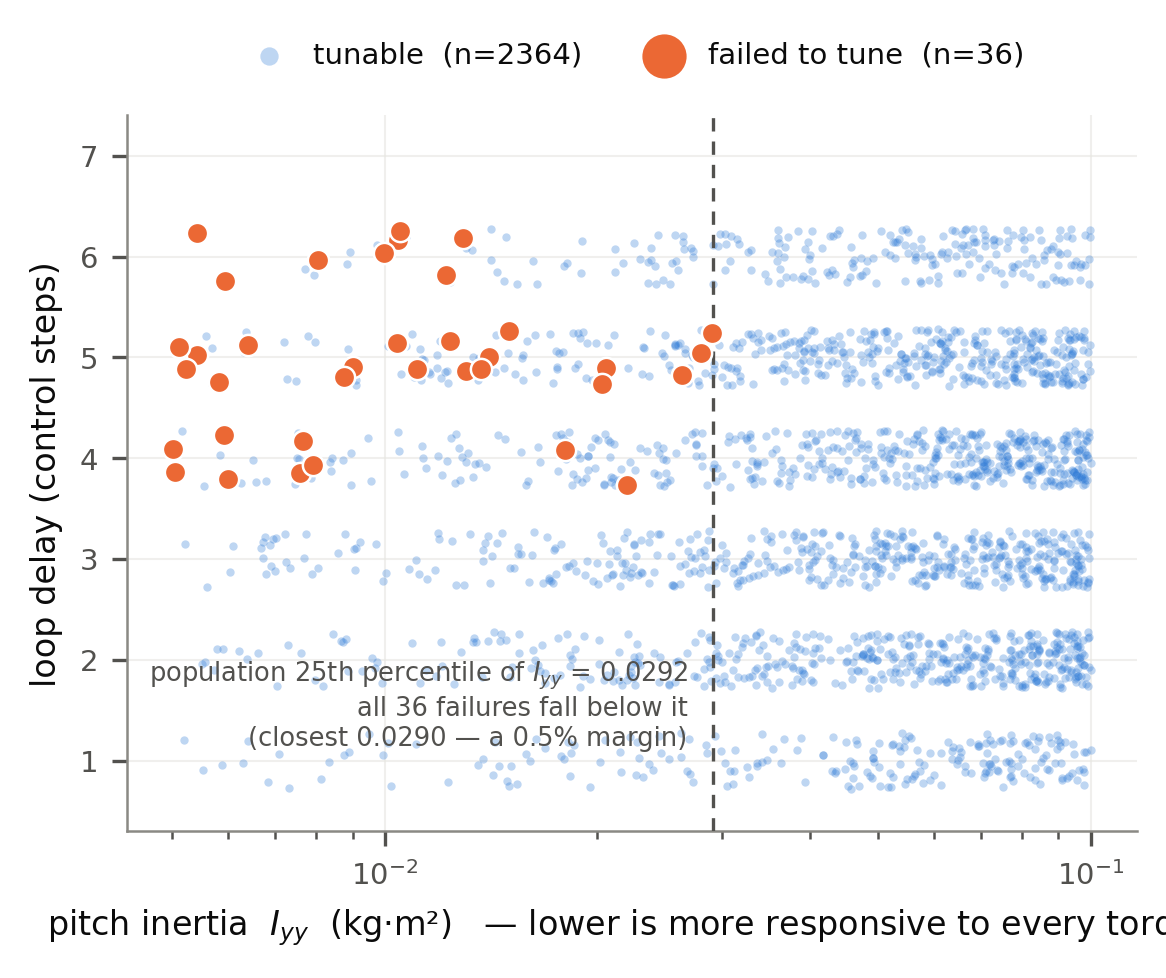
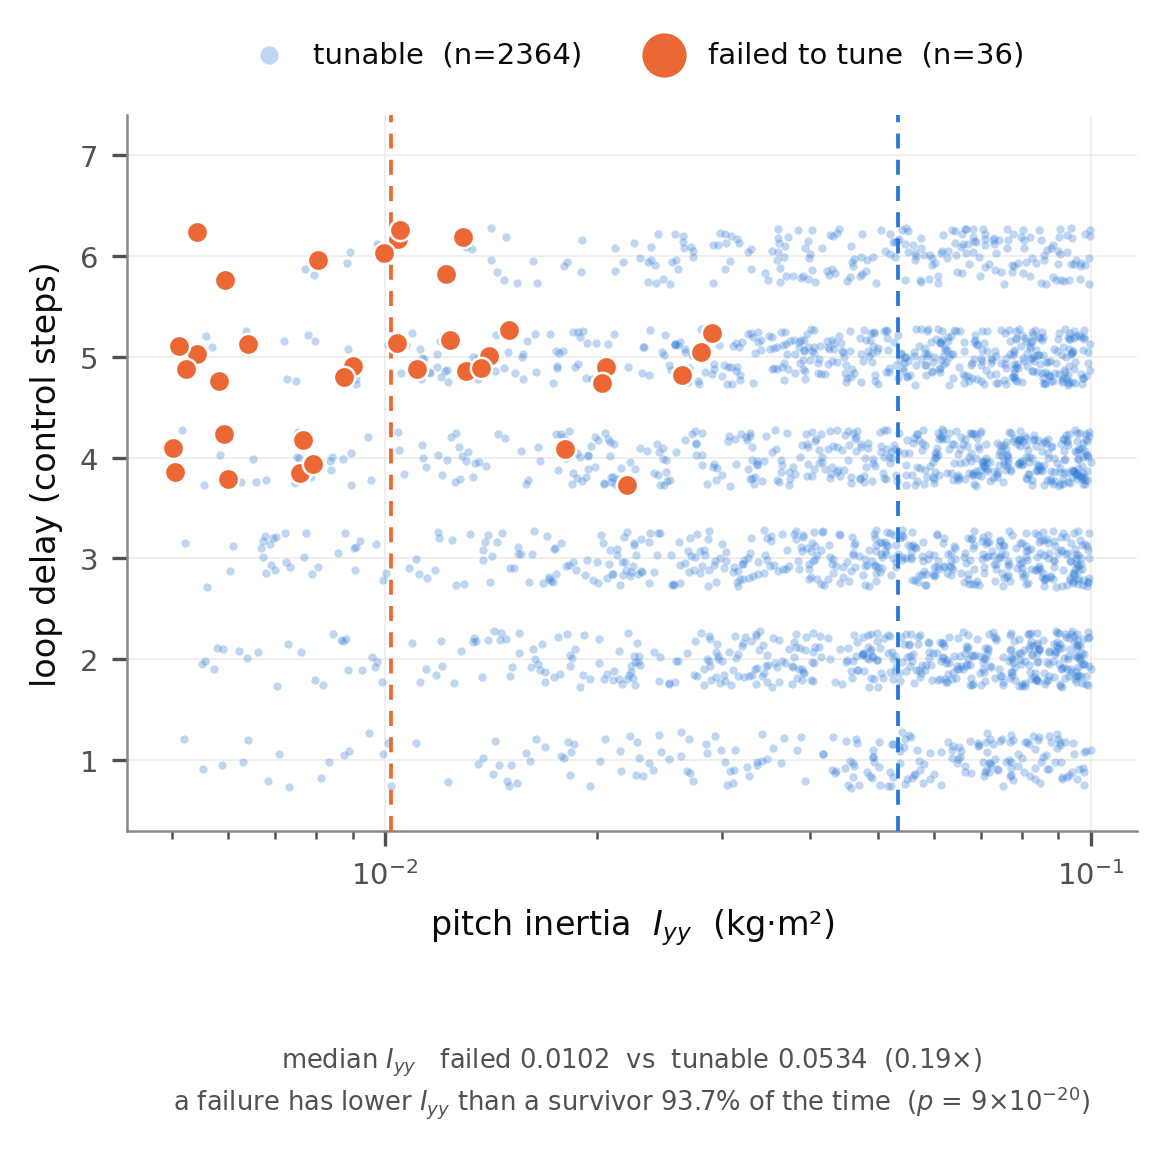
Consolidate everything section 4 needs into one file; fix four factual errors and rebuild Figure 3
Braxton asked for a single self-contained file so he does not have to scroll between four documents
while writing. paper/S4_EVERYTHING.md folds in the paragraph plan, the bullet skeleton, the outline's
section 4 notes, the full sidebar table, and the claim/evidence entry. The two older section 4 files
are marked SUPERSEDED rather than deleted.

FOUR FACTUAL ERRORS found while assembling it, all in the half-draft he has written:

1. "6 DOF physics" -- WRONG, and the most damaging one. sim/simulator.py carries two state variables,
   theta_arr and q_arr: one angle, one rate, planar pitch. No roll, no yaw, no quaternion. The 6DOF
   quaternion sim is Firmware/sim_ascent/ascent_sim.cpp, a different program used for firmware SIL,
   not for the 2,400-design campaign.
2. "failure means a peak RMSE of more than 20 degrees" -- no such criterion exists. The real
   definition is four simultaneous gates: max_theta < 70, rms < 15, end < 15, peak < 50, with labels
   layered on top (FRAGILE_SUCCESS_RATE 0.35, FRAGILE_RMS_DEG 16.0, EASY needing robustness 1.0 plus
   SR >= 0.80 and RMS <= 8). "Peak RMSE" also conflates two separate gates.
3. "ten physics factors" -- there are ELEVEN (7 original plus 4 added 2026-06-04). My own notes said
   ten as well; both were wrong.
4. Fidelity modules cited as "detailed in Fig. 1" -- Figure 1 is design-space coverage. No figure
   shows the modules.

FIGURE 3 REBUILT. It was still drawing the retired 25th-percentile line and annotating "all 36
[…]

diff --git a/paper/make_sts_figures.py b/paper/make_sts_figures.py
@@ -112,18 +112,20 @@ def fig3():
     ax.scatter(bad.Iyy, bad.latency_steps + jit[d.fail.values], s=26, lw=.6,
                facecolor=ORANGE, edgecolor="white", zorder=5,
                label=f"failed to tune  (n={len(bad)})")
-    q25 = d.Iyy.quantile(.25)
-    ax.axvline(q25, color=INK2, lw=.8, ls=(0, (4, 3)), zorder=4)
-    # Honest annotation: the claim is true but MARGINAL for the closest design (0.02904 vs
-    # 0.02920 = 0.5%), which is why points appear to sit on the line. State the margin so a
-    # reader who squints at the figure is not left doubting the claim.
-    mx = d[d.fail].Iyy.max()
-    ax.annotate(f"population 25th percentile of $I_{{yy}}$ = {q25:.4f}\n"
-                f"all {int(d.fail.sum())} failures fall below it\n"
-                f"(closest {mx:.4f} — a 0.5% margin)",
-                xy=(q25 * 0.92, 1.55), fontsize=6.2, color=INK2, va="center", ha="right")
+    # No cutoff line. The 25th-percentile framing was RETIRED 2026-08-10: the binding failure sits
+    # at the 24.79th percentile, so 25 is the smallest round number giving 100% and reads as a
+    # threshold chosen to flatter. Annotate the threshold-free statistic instead — it is stronger,
+    # carries a p-value, and leaves the reader nothing to measure with a ruler.
+    med_f, med_ok = d[d.fail].Iyy.median(), d[~d.fail].Iyy.median()
+    ax.axvline(med_f,  color=ORANGE, lw=.9, ls=(0, (4, 3)), zorder=4)
+    ax.axvline(med_ok, color=BLUE,   lw=.9, ls=(0, (4, 3)), zorder=4)
+    ax.annotate(f"median $I_{{yy}}$   failed {med_f:.4f}  vs  tunable {med_ok:.4f}  (0.19×)\n"
+                "a failure has lower $I_{yy}$ than a survivor "
+                "93.7% of the time  ($p$ = 9×10$^{-20}$)",
+                xy=(0.5, -0.30), xycoords="axes fraction", fontsize=6.2, color=INK2,
+                va="top", ha="center")
     ax.set_xscale("log")
-    ax.set_xlabel("pitch inertia  $I_{yy}$  (kg·m²)   — lower is more responsive to every torque")
+    ax.set_xlabel("pitch inertia  $I_{yy}$  (kg·m²)")
     ax.set_ylabel("loop delay (control steps)")
     ax.set_ylim(0.3, 7.4)
     ax.legend(loc="upper center", bbox_to_anchor=(0.5, 1.14), ncol=2,

diff --git a/paper/S4_EVERYTHING.md b/paper/S4_EVERYTHING.md
@@ -1,0 +1,263 @@
+# §4 — everything needed to write it. Self-contained.
+
+**This file replaces the need to open any other.** `S4_WRITING_PLAN.md`, `S4_BULLET_SKELETON.md`,
+`OUTLINE_STS.md` §4 and `CLAIM_EVIDENCE_TABLE.md` C0 are all folded in here. If a fact isn't in this
+file, §4 doesn't need it.
+
+**Bullets are specifications, not sentences.** Every number here is your data; the sentence around it
+has to be yours. AI-drafted report prose is disqualifying under STS Appendix 4.
+
+---
+
+# PART 0 — FIX THESE IN WHAT YOU ALREADY WROTE
+
+Four factual errors in the draft (P1–P6). All are one-line corrections.
+
+| # | you wrote | correct | why it matters |
+|---|---|---|---|
+| 1 | "6 DOF physics" | **single-axis (planar pitch)** | `sim/simulator.py` carries two state variables, `theta_arr` and `q_arr` — one angle, one rate. No roll, no yaw, no quaternion. The 6DOF quaternion sim is `Firmware/sim_ascent/ascent_sim.cpp`, a **different program** for firmware SIL, not this campaign. **Most damaging error in the draft.** |
+| 2 | "failure means a peak RMSE of more than 20 degrees" | **four simultaneous gates** — see §A below | No such criterion exists anywhere in the code. "Peak RMSE" also conflates two separate gates. |
+| 3 | "ten physics factors" | **eleven** | 7 original + 4 added 2026-06-04. My own notes said ten too — both wrong. Listed in §A. |
+| 4 | modules "detailed in Fig. 1" | **no figure shows them** | Fig 1 is design-space coverage (Iyy × latency coloured by keff). Cite it for coverage, list the modules in text. |
+
+Also: **lines 5–11 of your draft are my bullets pasted verbatim**, including my markdown bold. Those
+have to become your prose or come out. Under Appendix 4 they are not your words.
+
+---
+
+# PART A — REFERENCE FACTS
+
+Everything about the method you might need to state. Verified against the code, 2026-08-10.
+
+### The simulator
+- **Single-axis planar pitch.** State: `theta` (angle), `q` (rate). `sim/simulator.py:152`
+- **dt = 0.005 s (200 Hz)**; run length **t_end = 3.0 s**
+- Reference **θ_ref = 0°**, initial condition **θ₀ = 0°** — the task is *hold vertical under
+  disturbance*, not recover from an initial offset
+- Determinism: same seed → identical trajectory
+
+### The eleven fidelity modules (`sim/fidelity_config.py:114`)
+wind · backlash · slew rate limit · latency · sensor noise · thrust variation · deadband ·
+nonlinear aero (sin θ vs θ) · dynamic pressure from integrated velocity · realistic thrust curve T(t) ·
+CG/inertia shift from propellant burn
+
+### Success gates — ALL FOUR must hold simultaneously, per run (`experiment_protocol.py:75`)
+| gate | quantity | threshold |
+|---|---|---|
+| stability | max_theta_deg | < 70° |
+| tracking | rms_error_deg | < 15° |
+| terminal | end_error_deg | < 15° |
+| peak | peak_error_deg | < 50° |
+
+### Labels (`sim/units.py:100`)
+- **EASY** — robustness = 1.00 (all three gain sets pass) **and** success rate ≥ 0.80, RMS ≤ 8°,
+  saturation fraction ≤ 0.60, settling ≤ 3.0 s, oscillation score ≤ 3.0
+- **FRAGILE** — success rate ≥ 0.35, RMS ≤ 16.0°, but fails the EASY quality gates
+- Robustness is tested at **±40% Kp/Kd**, 3 seeds, needing all 3 to pass
+- Population: **2,400 designs = 2,362 EASY + 36 FRAGILE + 2 INFEASIBLE**
+- In §4 you may call FRAGILE "failed to tune" — Fig 3's legend already does
+
+### The two tuners — this distinction is the whole of P7
+| | `autotune_grid` (§4/§5 labels) | `autotune_continuous` (§6 only) |
+|---|---|---|
+| search | nested **Kp × Kd** double loop | Kd probed **once** at Kp = 40 over {1, 4, 16, 64}, then **frozen** |
+| grid | Kp ∈ {2, 5, 15, 40, 80} × Kd ∈ {1, 2, 8, 16, 32} = **25 pairs** | Kp then swept 1 → 320 |
+| seeds | 2 search seeds | — |
+| D goes stale? | **no — impossible by construction** | **yes — that is the mechanism** |
+| where | `experiment_runner.py:205`, grids at `:69` | `experiment_runner.py:246` |
+
+### The figures §4 owns
+- **Fig 3** `fig03_failure_map.png` — x = pitch inertia (log), y = loop delay in control steps.
+  2,364 tunable (small blue) vs 36 failed (large orange). Two dashed median lines, orange = failed
+  median 0.0102, blue = tunable median 0.0534. **No cutoff line** — rebuilt 2026-08-10.
+- **Fig 4** `fig04_performance_frontier.png` — x = authority×delay (log, a plotting coordinate),
+  y = peak achievable success rate, with a rolling-median trend line.
+- **Fig 1** (owned by §3) — design-space coverage, Iyy × latency coloured by keff. Cite for coverage.
+
+---
+
+# PART B — THE ELEVEN PARAGRAPHS
+
+**Budget 3.75 pp** = 3.25 body + 0.5 sidebar ≈ **1,100–1,300 words** plus two figures.
+Your P1–P6 currently ≈ 390 words against ~600 for those six; the shortfall is all in P5.
+
+**Section job:** *which builds fail, and can you tell before you build one?* A reader who stops after
+§4 should still have gotten the paper.
+
+### P1 · Opener — ~80 words ✅ *written*
+- → builder's position: parameters are fixed at build time, tunability is discovered after
+- → the four measurable quantities: **thrust, nozzle moment arm, pitch inertia, loop delay**
+- → frame: *prediction before construction*
+- ✗ "parameters **like** thrust…" — drop the hedge, these are the complete set and the paper's spine
+- ✗ don't preview §6, don't say "artifact"
+
+### P2 · The population — ~90 words ✅ *written, needs fixes 1/3/4*
+- → **2,400 designs, Latin hypercube**
+- → `max_gimbal_deg` **2.0–15.0°, median 8.6°**
+- → **eleven** fidelity modules, **single-axis pitch** dynamics
+- → cite Fig 1 for coverage only
+- ✗ two sentences of scope, then move — don't re-open Methods
+
+### P3 · Fig 3 — ~120 words ✅ *written, needs fix 2*
+- → **cite "Figure 3" by number** (uncited figure = disqualification risk)
+- → axes: pitch inertia × loop delay; 2,364 tunable vs 36 failed
+- → what the eye catches *before* quantifying: failures cluster at low inertia
+- → state the real failure definition (§A gates), one sentence
+- ✗ never "every failure lies left of here" — retired with the 25th-percentile framing
+
+### P4 · The lead number — ~110 words ✅ *written, incomplete*
+- → **93.7%** — a randomly chosen failing design has lower pitch inertia than a randomly chosen
+  surviving one
+- → **Mann-Whitney p = 9.45 × 10⁻²⁰**, **rank-biserial 0.875**, n = 36 vs 2,364 ← **MISSING from your draft**
+- → median failing design at the **5.4th percentile** (IQR 1.1–8.9)
+- → **17 of 36** below the 5th, **28 of 36** below the 10th ← **MISSING from your draft**
+- → median Iyy of failures **0.19×** the population median
+- → mechanism sentence: disturbance angular acceleration scales as 1/Iyy while control authority is
+  capped by max gimbal, so no gain choice buys it back
+- ✗ **never** "all 36 below the 25th percentile" — the binding case is at the **24.79th**, so 25 is
+  the smallest round number giving 100%; at the 20th it is 33 of 36. Retired 2026-08-10.
+- ✗ don't write "the graph shows" for a Mann-Whitney result — figures show, statistics are computed
+- ✗ don't say inertia is the *only* thing that matters; P5 qualifies it immediately
+
+### P5 · The joint fit — ~140 words ⚠ *currently my bullets, must become prose*
+- → specify **before** the numbers: unregularized fit, standardized predictors, bootstrap 95% CIs
+- → log(1/Iyy) **+2.37** [1.94, 3.14]
+- → log(T·L) **+1.77** [1.30, 2.45]
+- → log(τ) **+2.90** [2.24, 3.92]
+- → all three positive, all CIs exclude zero
+- → keff = T·L/Iyy is a legitimate *grouping*: raw-log ratio **1.18**, where keff would require 1.00
+- → dropping T·L costs accuracy: CV AUC **0.9829 → 0.9687**
+- ✗ **claims-out:** never that thrust is irrelevant, protective, or doesn't matter
+
+### P6 · The retracted reading — ~60 words ✅ *written, good*
+- → prior reading was "inertia, not authority" (log(T·L) came out **−0.18**)
+- → cause: **L2 regularization penalising a manually-added intercept column**
+- → refitting unregularized reversed it — which is why P5 specifies "unregularized"
+- ✗ hard cap 2–3 sentences. The audit is §8.
+
+### P7 · ⚠ PROTOCOL DEFENCE — ~130 words — **DO NOT CUT** ← *you are here*
+Raise the objection in the reader's voice, then answer it. The argument, as a chain:
+1. The §6 artifact arises from one mechanism: a design's best gain lands far from where D was probed,
+   so D is mismatched to the final P — and the mismatch **grows with authority×delay**.
+2. That mechanism **requires** a tuner that fixes D once and then moves P away from it.
+3. `autotune_grid` scores **(P, D) pairs**, 25 of them, each on its own merits. There is no "the D
+   value" for P to move away from.
+4. ∴ the mechanism **cannot operate** on §4's data. Not "we checked" — it cannot happen.
+- → *then*, as corroboration only: full re-tune moved labels **1.9%**
+- ✗ don't lead with the 1.9% — it makes a definitional defence look statistical
+- ✗ don't footnote it, don't defer to §8, don't go below ~120 words
+- **Step 3 is what makes it land.** The reader must grasp that a joint search has no privileged D.
+
+### P8 · Fig 4, the frontier — ~130 words
+- → **cite "Figure 4" by number**
+- → plotted: peak achievable success rate vs authority×delay
+- → ρ = **−0.692**, p = **3.4 × 10⁻¹⁰**, n = **63**
+- → conditions: **per-design optimal tuning, fresh evaluation seeds**
+- → one clause on why it survived when the window sections didn't: never scored on the retired
+  `window_ratio` metric
+- ✗ **axis rule:** "authority×delay", a plotting coordinate. Never Π, never dimensionless, never a
+  parameter you discovered
+
+### P9 · What the frontier means — ~80 words *(cut first if long)*
+- → degradation is **graded, not a cliff** — there is no threshold to hunt for
+- → practical reading: a marginal design isn't disqualified, it's *expensive*
+- → no new numbers
+
+### P10 · The honest limit — ~120 words
+- → **29 of 36** positives flagged `uncertain` by the project's own Wilson-interval check
+- → four-number screen: AUC **0.985** against the original label, **0.57** against an independent
+  harsher probe
+- → only **5 of 16** original positives fail when the gain is pushed 2×
+- → land on: **the map is real; the binary line drawn on it is not sharp**
+- ✗ **claims-out:** never call it a controllability screen — it predicts the original labelling procedure
+
+### P11 · Close — ~80 words
+- → the deliverable: screen from four measurable numbers before cutting metal
+- → hand to §5: §4 asked *who* fails, §5 asks *why*
+- ✗ no new numbers, no summary of the whole paper
+
+---
+
+# PART C — THE SIDEBAR, IN FULL
+
+**"What surprised a builder" — 0.5 pp, boxed, inside §4.** Communication device, **no new claims** —
+every row is already established elsewhere in the corpus. Four things a builder expects to matter that
+don't, then the one that does.
+
+| a builder expects | what was measured | implication |
+|---|---|---|
+| **A faster servo buys control.** Rate limit is what you upgrade. | Servo speed does not mark a failing design: r = **+0.037** (p = 0.071, n = 2,400) across 60–200 °/s. Removing the rate limit entirely moves success **+0.005** (Wilcoxon p = 0.128, n = 142). | Spend the money elsewhere. **Keep this nuance:** failing designs *do* saturate — **0.597** of the burn vs **0.089** — so saturation is a **symptom worth watching** (it is what §7 detects) but not the cause. |
+| **Wind is the enemy.** | Wind strength does not mark a failing design: r = **−0.000** (p = 1.0) over a 9× range (0.05–0.45), and does not predict still-air-tuning failure either (ρ = +0.017, p = 0.4, n = 2,400). | Wind sets *how hard* the job is, not *which builds* fail. The four-number screen is unaffected by the day's weather. |
+| **An unstable airframe is harder to fly.** | Stability margin does not mark a failing design: r(static margin) = **+0.011** (p = 0.6), r(Cm_alpha) = **−0.004** (p = 0.86). | Under active TVC at this scale, fin/CG stability is not the discriminator. **Scope this narrowly** — see below. |
+| **A more powerful rocket needs a gentler gain.** | The gain ceiling is set by loop delay and is independent of authority — keff exponent **−0.005**, **−0.071**, **−0.082** across three independent measurements, every CI spanning zero. | The ceiling formula needs your loop rate, not your thrust. A powerful rocket is not automatically twitchy. |
+| **Build it light.** | Light means low pitch inertia. The **median failing design sits at the 5.4th percentile** of the population inertia distribution; a failure has lower Iyy than a survivor **93.7%** of the time. | The one intuition that *should* change behaviour: mass at the ends is control authority you already paid for. |
+
+**Two rows vetted and REJECTED — do not ship either:**
+- *"Aerodynamics contributes almost nothing at this scale."* Supported only in the **narrow** form
+  above. The broad claim is contradicted by the minimal-physics study, which found aerodynamic
+  coupling **necessary** to generate the disturbance environment at all — direct wind alone was
+  10–100× too weak.
+- *"Adding wind makes the vehicle settle better"* (dead-zone dither). Real, and locked in
+  `sim/validate.py`, but the magnitude moves ~5× with sensor-noise configuration and the linear
+  actuator improves too, so the "it's the dead zone" story doesn't hold.
+
+---
+
+# PART D — COMPLETENESS LEDGER
+
+Tick as you place them. Nothing here is optional except where marked.
+
+| # | value | ¶ | ✓ |
+|---|---|---|---|
+| 1 | 2,400 designs, Latin hypercube | P2 | ☐ |
+| 2 | max_gimbal 2.0–15.0°, median 8.6° | P2 | ☐ |
+| 3 | **eleven** fidelity modules, **single-axis pitch** | P2 | ☐ |
+| 4 | Figure 3 cited by number | P3 | ☐ |
+| 5 | the four success gates (70 / 15 / 15 / 50) | P3 | ☐ |
+| 6 | CLES **93.7%** | P4 | ☐ |
+| 7 | Mann-Whitney **p = 9.45e-20**, rank-biserial **0.875** | P4 | ☐ |
+| 8 | median failure at **5.4th pctile** (IQR 1.1–8.9) | P4 | ☐ |
+| 9 | **17 of 36** below 5th, **28 of 36** below 10th | P4 | ☐ |
+| 10 | median Iyy **0.19×** population | P4 | ☐ |
+| 11 | log(1/Iyy) +2.37 [1.94, 3.14] | P5 | ☐ |
+| 12 | log(T·L) +1.77 [1.30, 2.45] | P5 | ☐ |
+| 13 | log(τ) +2.90 [2.24, 3.92] | P5 | ☐ |
+| 14 | raw-log ratio **1.18** vs keff's 1.00 | P5 | ☐ |
+| 15 | CV AUC **0.9829 → 0.9687** without T·L | P5 | ☐ |
+| 16 | L2 / intercept column as the retraction's cause | P6 | ☐ |
+| 17 | `autotune_grid` = **25 joint pairs, 2 seeds** | P7 | ☐ |
+| 18 | `autotune_continuous` = probe at Kp 40, freeze, sweep to 320 | P7 | ☐ |
+| 19 | **1.9%** label movement (corroboration only) | P7 | ☐ |
+| 20 | Figure 4 cited by number | P8 | ☐ |
+| 21 | ρ = **−0.692**, p = 3.4e-10, n = 63 | P8 | ☐ |
+| 22 | **29 of 36** flagged uncertain | P10 | ☐ |
+| 23 | AUC **0.985** vs **0.57** | P10 | ☐ |
+| 24 | **5 of 16** fail at 2× | P10 | ☐ |
+| 25 | sidebar: 0.597 vs 0.089 saturated fraction | sidebar | ☐ |
+
+### Forbidden moves — every box must stay UNCHECKED
+☐ the word Π · ☐ "dimensionless" / "invariant" / "a parameter I discovered" ·
+☐ thrust called irrelevant or protective · ☐ "controllability screen" ·
+☐ "all failures below the 25th percentile" · ☐ "every failure lies left of here" ·
+☐ "6 DOF" · ☐ "the graph shows" attached to a computed statistic ·
+☐ any reliance on §6 · ☐ the dead-zone dither row · ☐ "aerodynamics contributes nothing" broadly
+
+### Style rules that hold for all 20 pages
+- **Person:** pick "I" or passive and hold it. Your draft mixes "our parameters" with "I used".
+- **Counts, not bare percentages**, where a count is available (17 of 36, 28 of 36, 5 of 16).
+- **Every figure cited by number in running text, including your own.** Uncited images can disqualify.
+- No filler adverbs ("Interestingly"), no "Here are…" lead-ins.
+
+---
+
+# PART E — DONE CHECK
+
+- [ ] The four Part-0 errors are fixed in P1–P6
+- [ ] P5 is prose, not a bullet list, and none of it is my phrasing
+- [ ] P7 exists, sits in the body, and leads with the structural argument
+- [ ] P10 is present — a §4 without the soft-label limit is overclaimed
+- [ ] Figures 3 and 4 each cited by number
+- [ ] Ledger items 1–25 all placed
+- [ ] Every forbidden-move box still unchecked
+- [ ] 1,100–1,300 words excluding the sidebar
+- [ ] §4 reads standalone — nothing in it depends on §6

diff --git a/paper/S4_BULLET_SKELETON.md b/paper/S4_BULLET_SKELETON.md
@@ -1,3 +1,7 @@
+> **SUPERSEDED 2026-08-10 by `paper/S4_EVERYTHING.md`**, which folds this bullet skeleton + ledger together with
+> the outline's §4 notes, the sidebar rows, the reference facts (simulator, gates, labels,
+> tuners, figures) and the corrections to the first draft. Kept for history; do not write from it.
+
 # §4 — bullet skeleton and completeness ledger
 
 Companion to `S4_WRITING_PLAN.md` (paragraph-level). This is the level below: **one bullet per point

diff --git a/paper/S4_WRITING_PLAN.md b/paper/S4_WRITING_PLAN.md
@@ -1,3 +1,7 @@
+> **SUPERSEDED 2026-08-10 by `paper/S4_EVERYTHING.md`**, which folds this paragraph-level plan together with
+> the outline's §4 notes, the sidebar rows, the reference facts (simulator, gates, labels,
+> tuners, figures) and the corrections to the first draft. Kept for history; do not write from it.
+
 # §4 — paragraph-by-paragraph writing plan
 
 **What this is.** A build order for §4 with every number docked to the paragraph that needs it, so you
